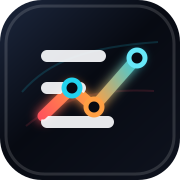
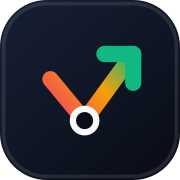
Redesign brand mark: minimal dip-to-breakout signal
Replaces the busy chart-line-over-bars logo (which muddied at favicon
sizes) with a single clean stroke: a rose descent into a valley entry
dot, breaking out into an emerald up-arrow — encoding the "eat fear"
thesis (buy panic, capture the recovery). Legible down to 16px.

Regenerates icon.svg, light/dark 32px favicons, apple-icon (180px), and
the multi-size favicon.ico from one master, and updates the inline
BrandLogoMark used in the header and profile.

Claude-Session: https://claude.ai/code/session_0189HQb4j6UGKnBzBdT9je5U

Changed region(s): [[0.1389, 0.25, 0.8611, 0.7778], [0.0, 0.0, 1.0, 1.0]]

diff --git a/components/brand-logo.tsx b/components/brand-logo.tsx
@@ -10,50 +10,37 @@ export function BrandLogoMark({ className }: BrandLogoMarkProps) {
   const reactId = React.useId().replace(/:/g, "")
   const surfaceId = `eatfear-surface-${reactId}`
   const signalId = `eatfear-signal-${reactId}`
-  const glowId = `eatfear-glow-${reactId}`
 
   return (
     <svg
       aria-hidden="true"
-      viewBox="0 0 180 180"
+      viewBox="0 0 100 100"
       className={cn("shrink-0", className)}
       fill="none"
       xmlns="http://www.w3.org/2000/svg"
     >
       <defs>
-        <linearGradient id={surfaceId} x1="24" x2="156" y1="18" y2="164" gradientUnits="userSpaceOnUse">
-          <stop stopColor="#172033" />
-          <stop offset="0.45" stopColor="#070A12" />
-          <stop offset="1" stopColor="#0D111C" />
+        <linearGradient id={surfaceId} x1="14" x2="86" y1="10" y2="92" gradientUnits="userSpaceOnUse">
+          <stop stopColor="#151D30" />
+          <stop offset="1" stopColor="#0A0E19" />
         </linearGradient>
-        <linearGradient id={signalId} x1="40" x2="141" y1="124" y2="55" gradientUnits="userSpaceOnUse">
-          <stop stopColor="#FF4D5E" />
-          <stop offset="0.47" stopColor="#FF9F43" />
-          <stop offset="1" stopColor="#22D3EE" />
+        <linearGradient id={signalId} x1="30" x2="74" y1="68" y2="28" gradientUnits="userSpaceOnUse">
+          <stop stopColor="#F43F5E" />
+          <stop offset="0.55" stopColor="#F59E0B" />
+          <stop offset="1" stopColor="#10B981" />
         </linearGradient>
-        <filter id={glowId} x="12" y="18" width="156" height="140" colorInterpolationFilters="sRGB" filterUnits="userSpaceOnUse">
-          <feGaussianBlur stdDeviation="5" />
-        </filter>
       </defs>
-      <rect width="180" height="180" rx="42" fill={`url(#${surfaceId})`} />
-      <path d="M22 92C49 61 87 47 158 42" stroke="#22D3EE" strokeOpacity="0.16" strokeWidth="2" />
-      <path d="M26 126C59 99 98 88 154 91" stroke="#FF4D5E" strokeOpacity="0.14" strokeWidth="2" />
-      <g filter={`url(#${glowId})`} opacity="0.75">
-        <path d="M43 116L72 88L94 107L137 58" stroke={`url(#${signalId})`} strokeWidth="14" strokeLinecap="round" strokeLinejoin="round" />
-      </g>
+      <rect width="100" height="100" rx="26" fill={`url(#${surfaceId})`} />
       <path
-        d="M43 116L72 88L94 107L137 58"
+        d="M28 44 L47 67 L74 30"
         stroke={`url(#${signalId})`}
-        strokeWidth="11"
+        strokeWidth="9"
         strokeLinecap="round"
         strokeLinejoin="round"
       />
-      <path d="M47 56H100M47 88H80M47 122H108" stroke="#F8FAFC" strokeOpacity="0.92" strokeWidth="12" strokeLinecap="round" />
-      <path d="M43 116L72 88L94 107L137 58" stroke={`url(#${signalId})`} strokeWidth="7" strokeLinecap="round" strokeLinejoin="round" />
-      <circle cx="72" cy="88" r="8" fill="#070A12" stroke="#22D3EE" strokeWidth="5" />
-      <circle cx="94" cy="107" r="8" fill="#070A12" stroke="#FF9F43" strokeWidth="5" />
-      <circle cx="137" cy="58" r="8" fill="#070A12" stroke="#67E8F9" strokeWidth="5" />
-      <rect x="6" y="6" width="168" height="168" rx="38" stroke="#FFFFFF" strokeOpacity="0.14" strokeWidth="3" />
+      <path d="M58 30 H74 V46" stroke="#10B981" strokeWidth="9" strokeLinecap="round" strokeLinejoin="round" />
+      <circle cx="47" cy="67" r="6.5" fill="#0A0E19" stroke="#F8FAFC" strokeWidth="3.5" />
+      <rect x="2" y="2" width="96" height="96" rx="24" stroke="#FFFFFF" strokeOpacity="0.10" strokeWidth="2" />
     </svg>
   )
 }
